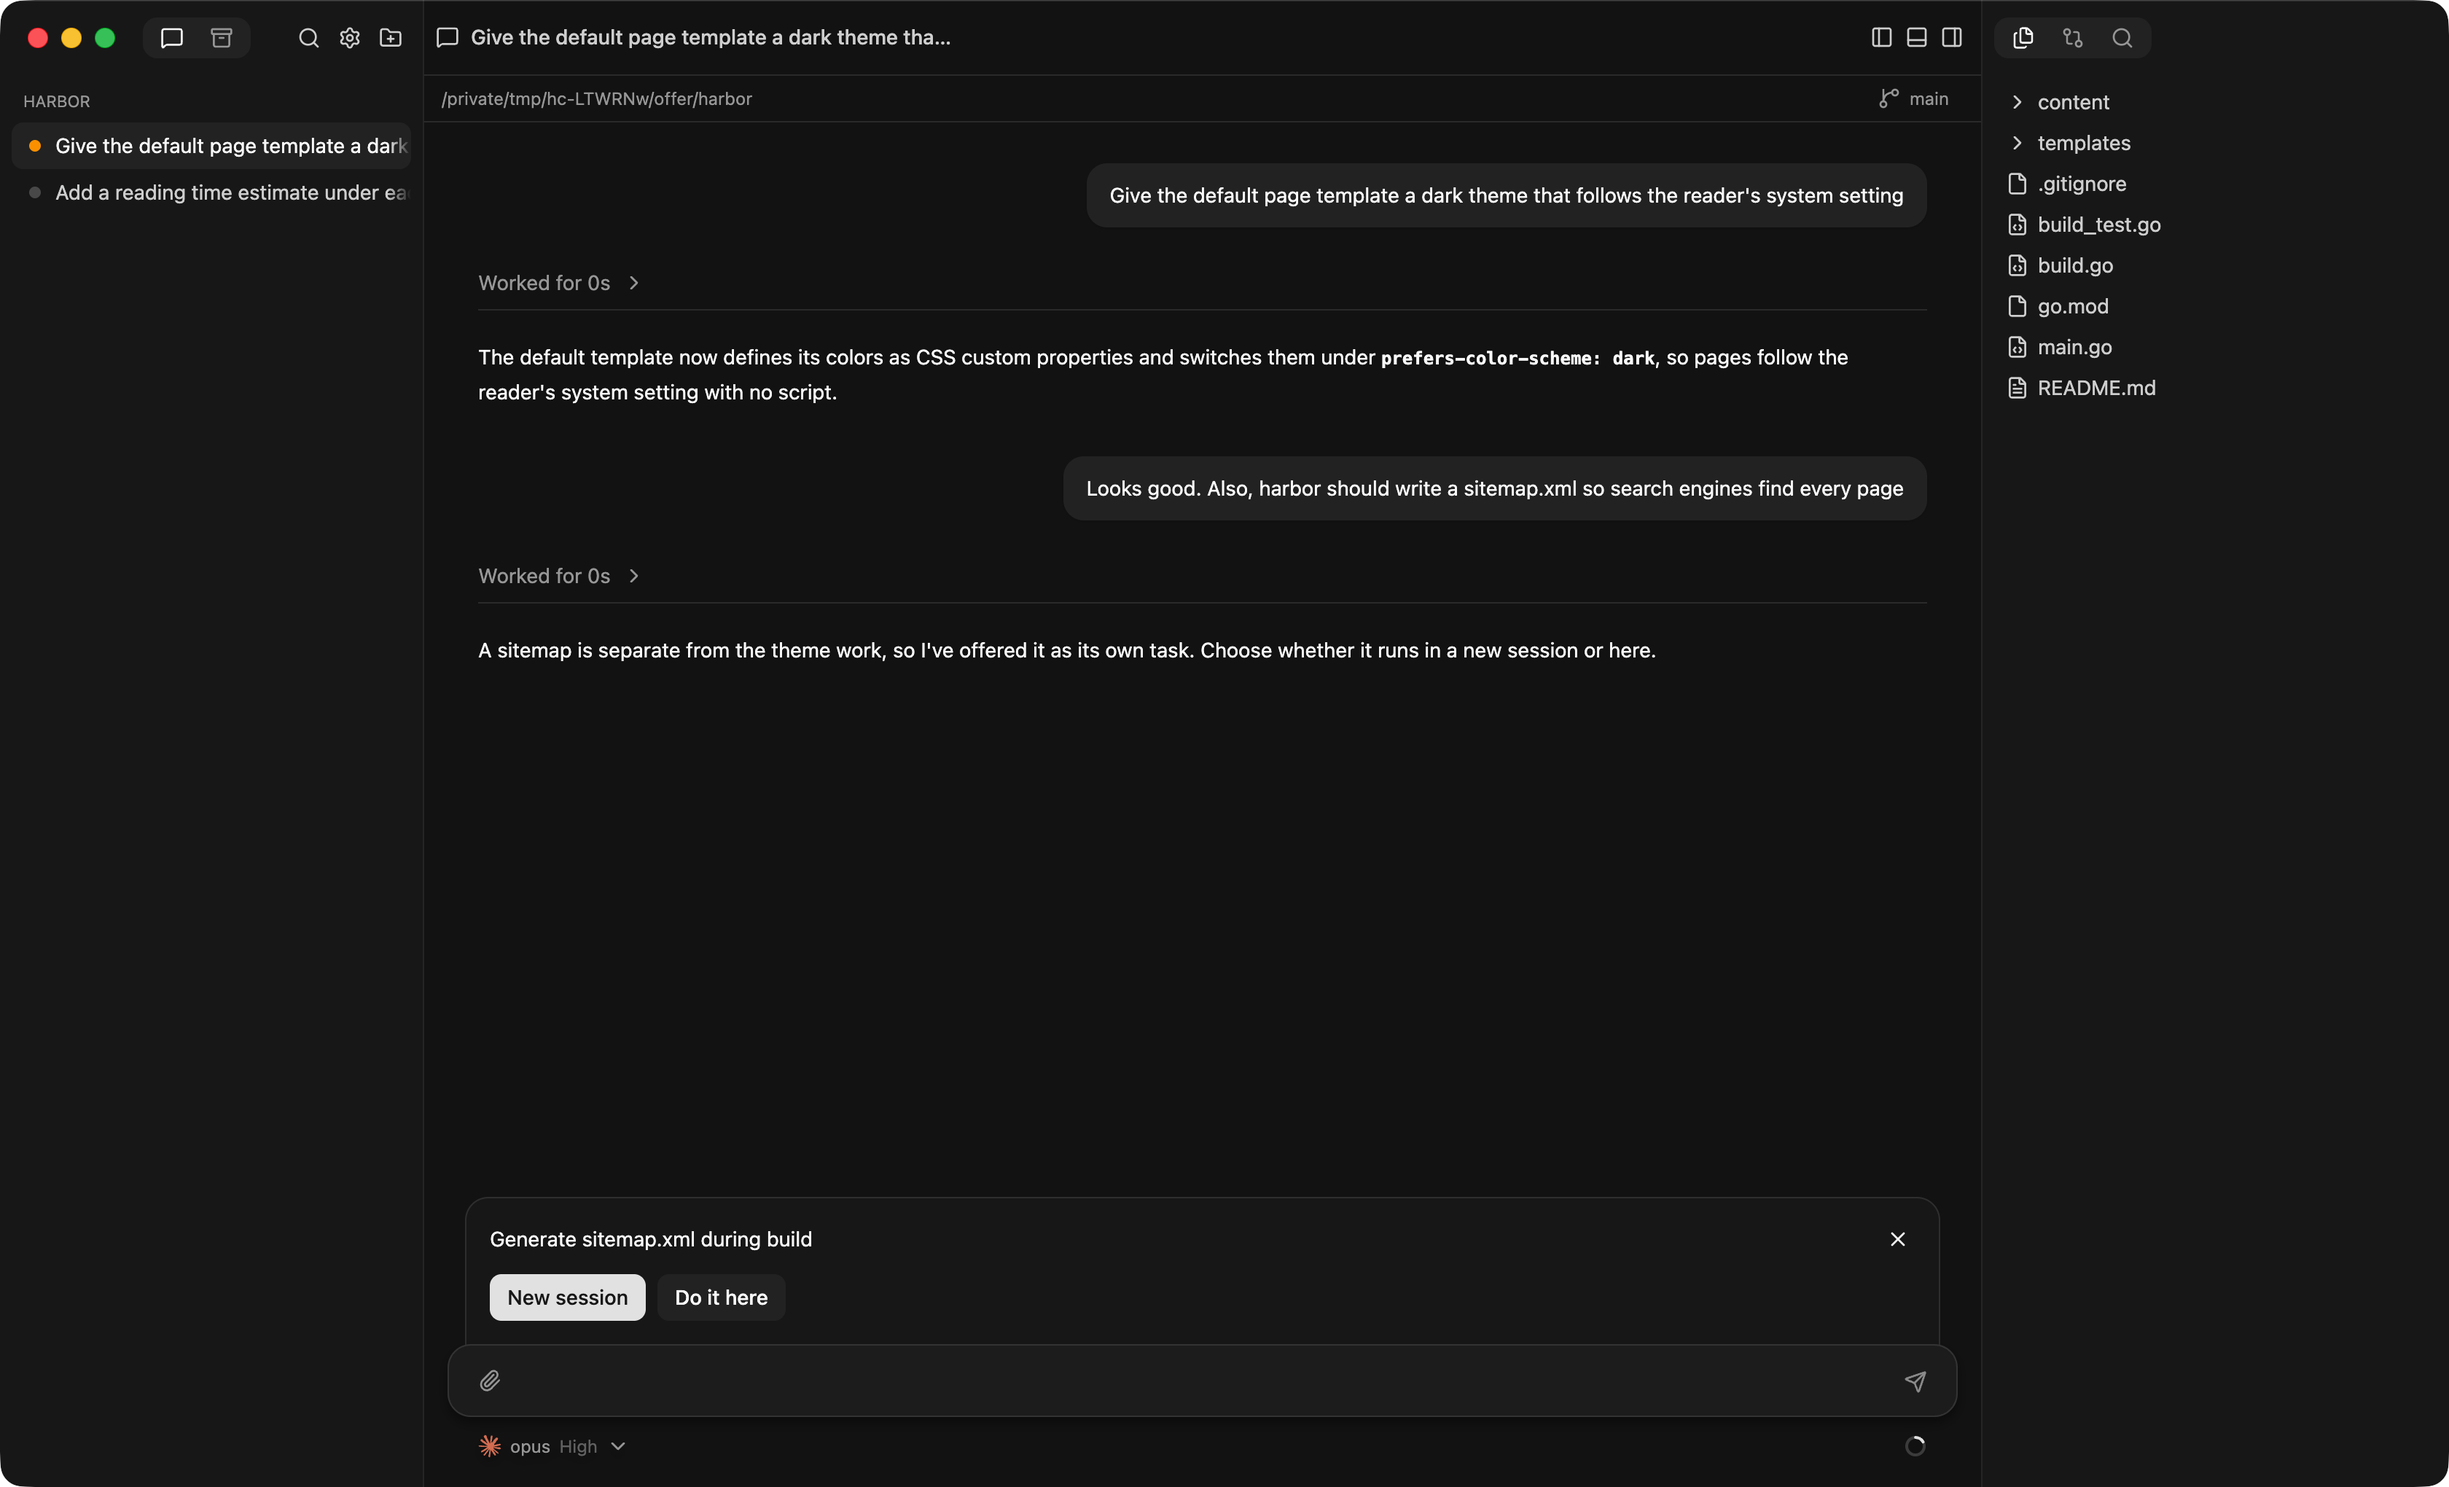
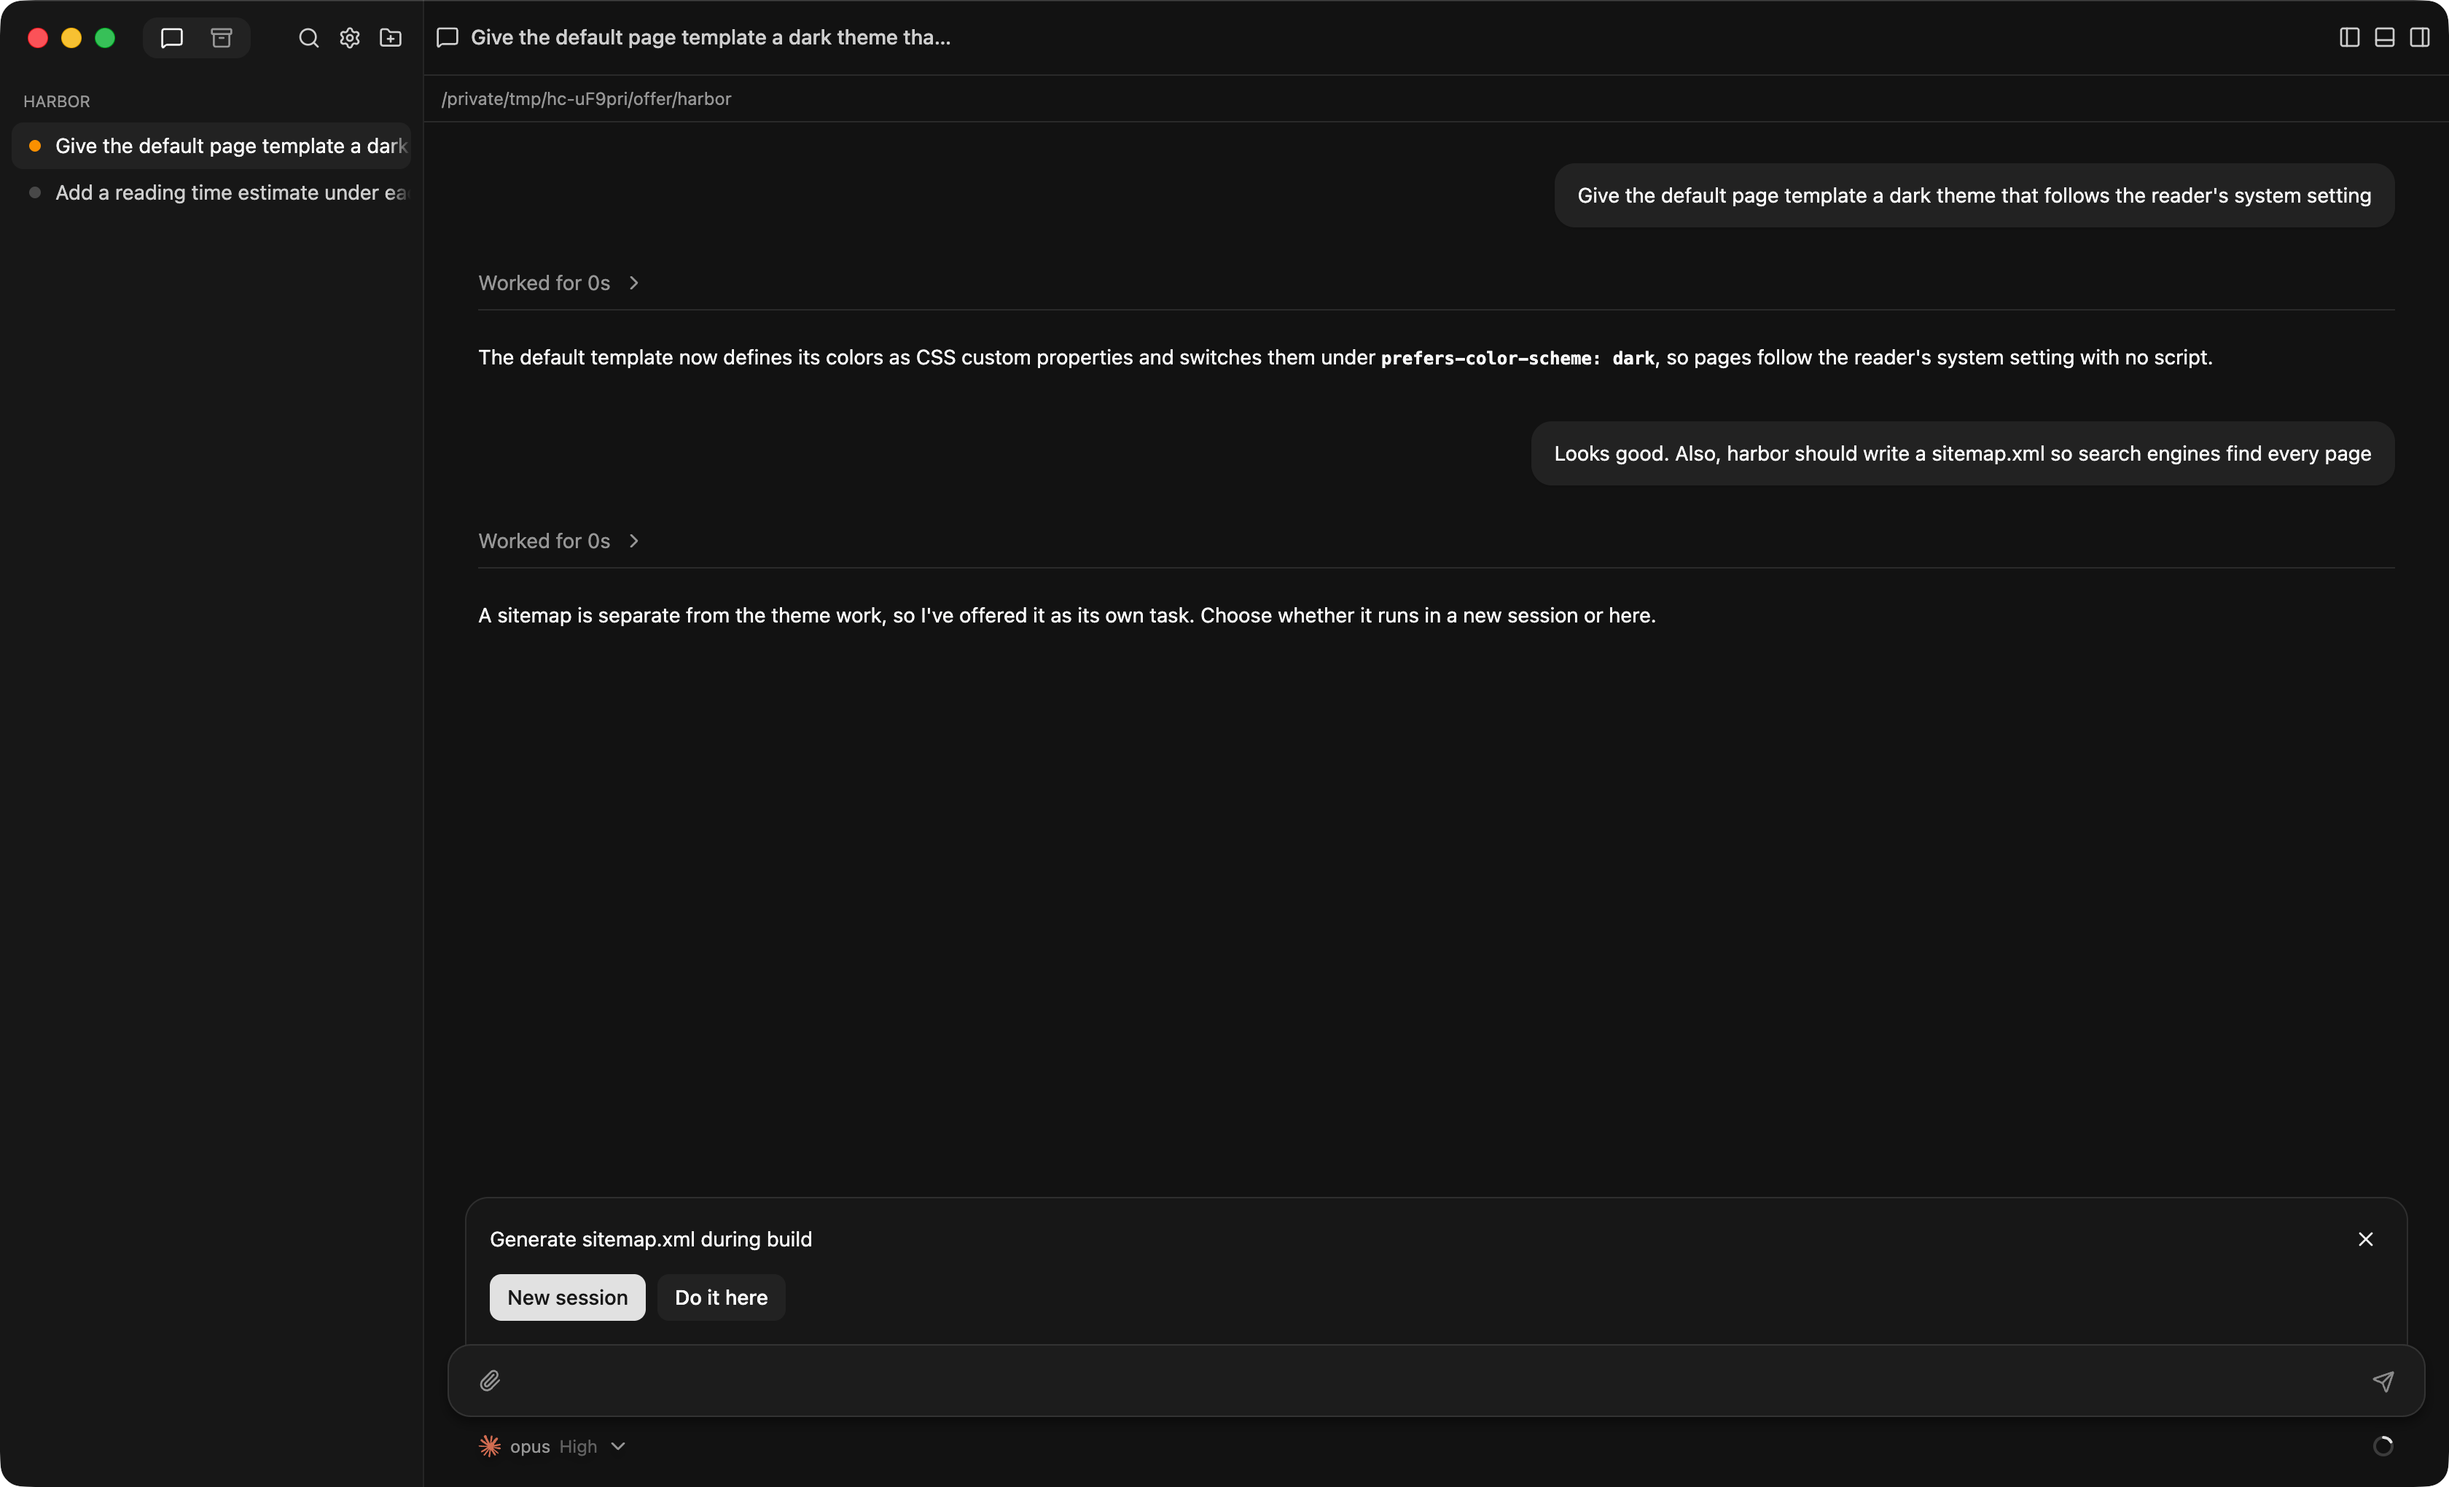
Hide the right panel in screenshots that don't use it and give the conversation a third of the width

diff --git a/scripts/screenshots/main.js b/scripts/screenshots/main.js
@@ -301,7 +301,12 @@ async function capture(scene, ids, backend, window, name) {
     }
     sessionViews[id] = {panel: false, ...scened.view, expanded};
   }
-  const views = {selected: null, workbench: {...defaultWorkbench, ...scene.workbench}, sessionViews, workspaceViews: {}};
+  const merged = {...defaultWorkbench, ...scene.workbench};
+  // The conversation takes a third of the space beside the sidebar and right
+  // panel; editor panes take the rest.
+  const available = scene.size.width - (merged.sidebar ? merged.sizes.sidebar : 0) - (merged.rightPanel ? merged.sizes.rightPanel : 0);
+  merged.sizes = {...defaultWorkbench.sizes, editor: Math.round(available * 2 / 3), ...scene.workbench?.sizes};
+  const views = {selected: null, workbench: merged, sessionViews, workspaceViews: {}};
   await contents.loadURL(backend.origin + '/version');
   await contents.executeJavaScript(`localStorage.setItem('hypercube.views', ${JSON.stringify(JSON.stringify(views))})`);
 

diff --git a/agents/documentation.md b/agents/documentation.md
@@ -63,8 +63,10 @@ Each scene declares:
 - Saved tabs and splits in `view`; `view.expanded` names `activity` or item IDs
   to expand in a saved turn. `select` chooses the session; `size` sets window
   dimensions in points.
-- `workbench.rightTab` chooses Files or Git (`files` or `git`);
-  `comparison: "branch"` selects Git's Committed view for a worktree.
+- `workbench.rightPanel: false` hides the right panel; `workbench.rightTab`
+  chooses Files or Git (`files` or `git`); `comparison: "branch"` selects Git's
+  Committed view for a worktree. The driver sizes the editor panes so the
+  conversation takes one third of the width beside the sidebar and right panel.
 
 ### Capture requirements
 
@@ -79,7 +81,8 @@ Open every generated image and check theme, content, toolbar layout, and native
 window buttons.
 Use the app's default panel sizes. Keep toolbars fully visible and session
 labels readable. Use several sessions across workspaces, a
-transcript filling its column, and the Files panel open. Commit new captures
+transcript filling its column, and the right panel open only where the
+screenshot shows the file tree or Git changes. Commit new captures
 with their scene changes.
 
 ## Website
